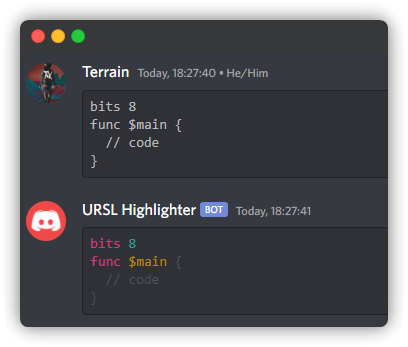
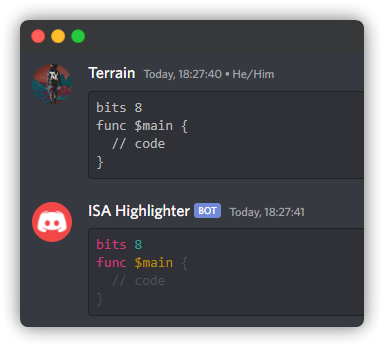
rename

diff --git a/README.md b/README.md
@@ -2,7 +2,7 @@
 
 This is a bot i made to highlight URSL, a little language i made. It reacts to any message that looks like so:
 
-````md
+````
 ```ursl
 bits 8
 func $main {
@@ -13,7 +13,7 @@ func $main {
 
 And responds with an ANSI-formatted syntax highlighting of that code:
 
-````md
+````
 ```ansi
 [35mbits[0m [36m8[0m
 [35mfunc[0m [33m$main[0m [30m{[0m
@@ -21,6 +21,8 @@ And responds with an ANSI-formatted syntax highlighting of that code:
 [30m}[0m
 ```
 ````
+
+It also supports URCL, and as the bot's name suggests, i'm happy to add support for more languages, such as your own ISA.
 
 The above may not look great in wherever you're viewing this, but in discord that renders pretty nicely:
 
